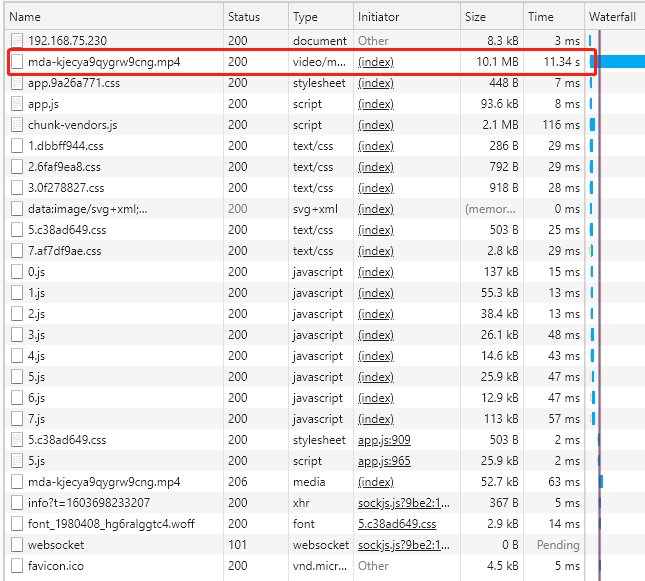
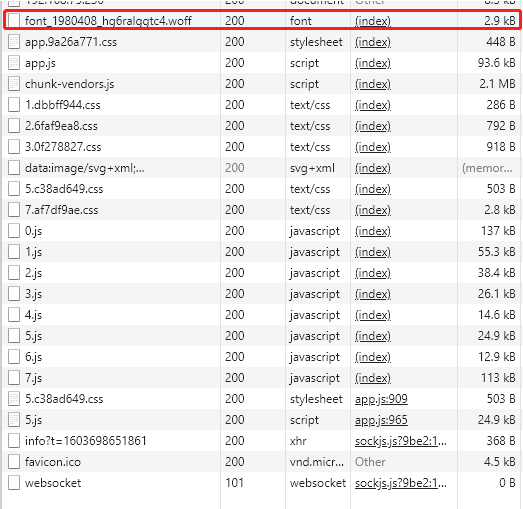
添加强缓存和协商缓存

Changed region(s): [[0.0, 0.0, 1.0, 1.0]]

diff --git a/src/pages/Index.vue b/src/pages/Index.vue
@@ -5,7 +5,6 @@
             您的浏览器不支持 video 标签。
         </video> -->
         <span class="iconfont"></span>
-        <img src="https://uat.vipthink.cn/activity/market/wd_pay_giftbag/images/page-bottom-logo.247b4a4.png" alt="">
     </div>
 </template>
 <style lang="scss" scoped>

diff --git a/md/8-强缓存和协商缓存.md b/md/8-强缓存和协商缓存.md
@@ -1,0 +1,46 @@
+# 8-强缓存和协商缓存
+强缓存和协商缓存优先级:强缓存>协商缓存
+
+## 强缓存:
+服务器端response header中通过设置的缓存时间来控制文件是否过期,从而去客户端获取并读取缓存文件
+
+### cache-control
+- 1. max-age: 设置从服务端获取文件到缓存过期的时间,在这段时间内会自动从浏览器缓存中获取文件
+- 2. s-maxage: 设置代理服务的缓存过期时间,不读客户端缓存判断,优先级高于max-age;
+- 3. private:即只有某些用户才可缓存该资源,例如客户端本地;
+- 4. public:任何情况下都可缓存该资源,例如对于公共访问CDN等缓存设备,设置public可以提高缓存命中率;
+- 5. no-chache:跳过强缓存但不妨碍协商缓存;
+- 6. no-store:不走任何缓存机制判断;
+
+cache-control属性优先级: no-store > no-cache > s-maxage > max-age 
+
+### Pragma
+逐步被弃用,是为了向下兼容,值为no-cache则代表禁用浏览器缓存;
+
+### Expires
+GMT时间，表示该缓存的有效时间,来自服务器时间,告诉浏览器可以直接走缓存而不需要请求
+
+强缓存优先级: Pragma > cache-control(HTTP1.1) > Expires(HTTP1.0)
+
+强缓存的缺陷:无法及时感知服务器文件的更新
+
+## 协商缓存:
+### last-modified和if-modified-since
+服务端在返回资源时，会将该资源的最后更改时间通过Last-Modified字段返回给客户端,再次请求的时候,客户端会先判断缓存信息中有没有目标文件,如果有,则会在请求头中添加if-modified-since,其值为当前读取到的缓存文件中的last-modified,如果发现服务器的文件修改时间等于if-modified-since,则会返回304状态,并从浏览器缓存中进行读取文件,如果发现新于当前文件,则会重新从服务器中获取文件,此时返回状态200
+
+last-modified的缺陷:
+- 1.某些服务器无法获取精确的修改时间
+- 2.文件内容没有修改,但文件的修改时间变了
+
+### etag和if-none-matched
+服务器通过某个算法对资源进行计算，取得一串值(类似于文件的md5值),请求会携带etag进行返回,当再次请求的时候,会判断当前if-none-matched是否匹配服务器当前资源的hash,否则返回最新资源,是则返回304并告诉浏览器读取缓存
+
+协商缓存优先级:  etag > last-modified
+
+![Image](./images/传输缓存层级.jpg)
+![Image](./images/协商缓存.png)
+
+
+
+
+

diff --git a/md/7-预加载prefetch和preload.md b/md/7-预加载prefetch和preload.md
@@ -18,6 +18,8 @@
 
 ### prefetch和preload的应用场景
 css加载【vue中感觉用的比较少，因为webpack已经有所处理】、js加载【对于一些插件类因为有兼容性可以配合defer和async进行服用】、font加载、图片加载、音频加载【比较适合vue中使用，可以在加载包之前进行加载，当然video和audio本身有preload，如果页面较复杂，作用会比较大，如果是活动页要加载背景音乐，可以考虑使用preload-js】
+![Image](./images/dns1.png)
+![Image](./images/dns2.png)
 
 ### prefetch和preload的痛处
 页面不合理或者过多使用预加载，会浪费用户的流量，比如preload资源在load时间3s后检测未被使用则会在控制台提示该操作会导致用户流量浪费
@@ -30,3 +32,4 @@ css加载【vue中感觉用的比较少，因为webpack已经有所处理】、j
 2）preload 资源（通过 <link rel=“preload"> 标签预加载）、 script 、 xhr 请求；
 3）图片、语音、视频；
 4）prefetch预读取的资源
+
